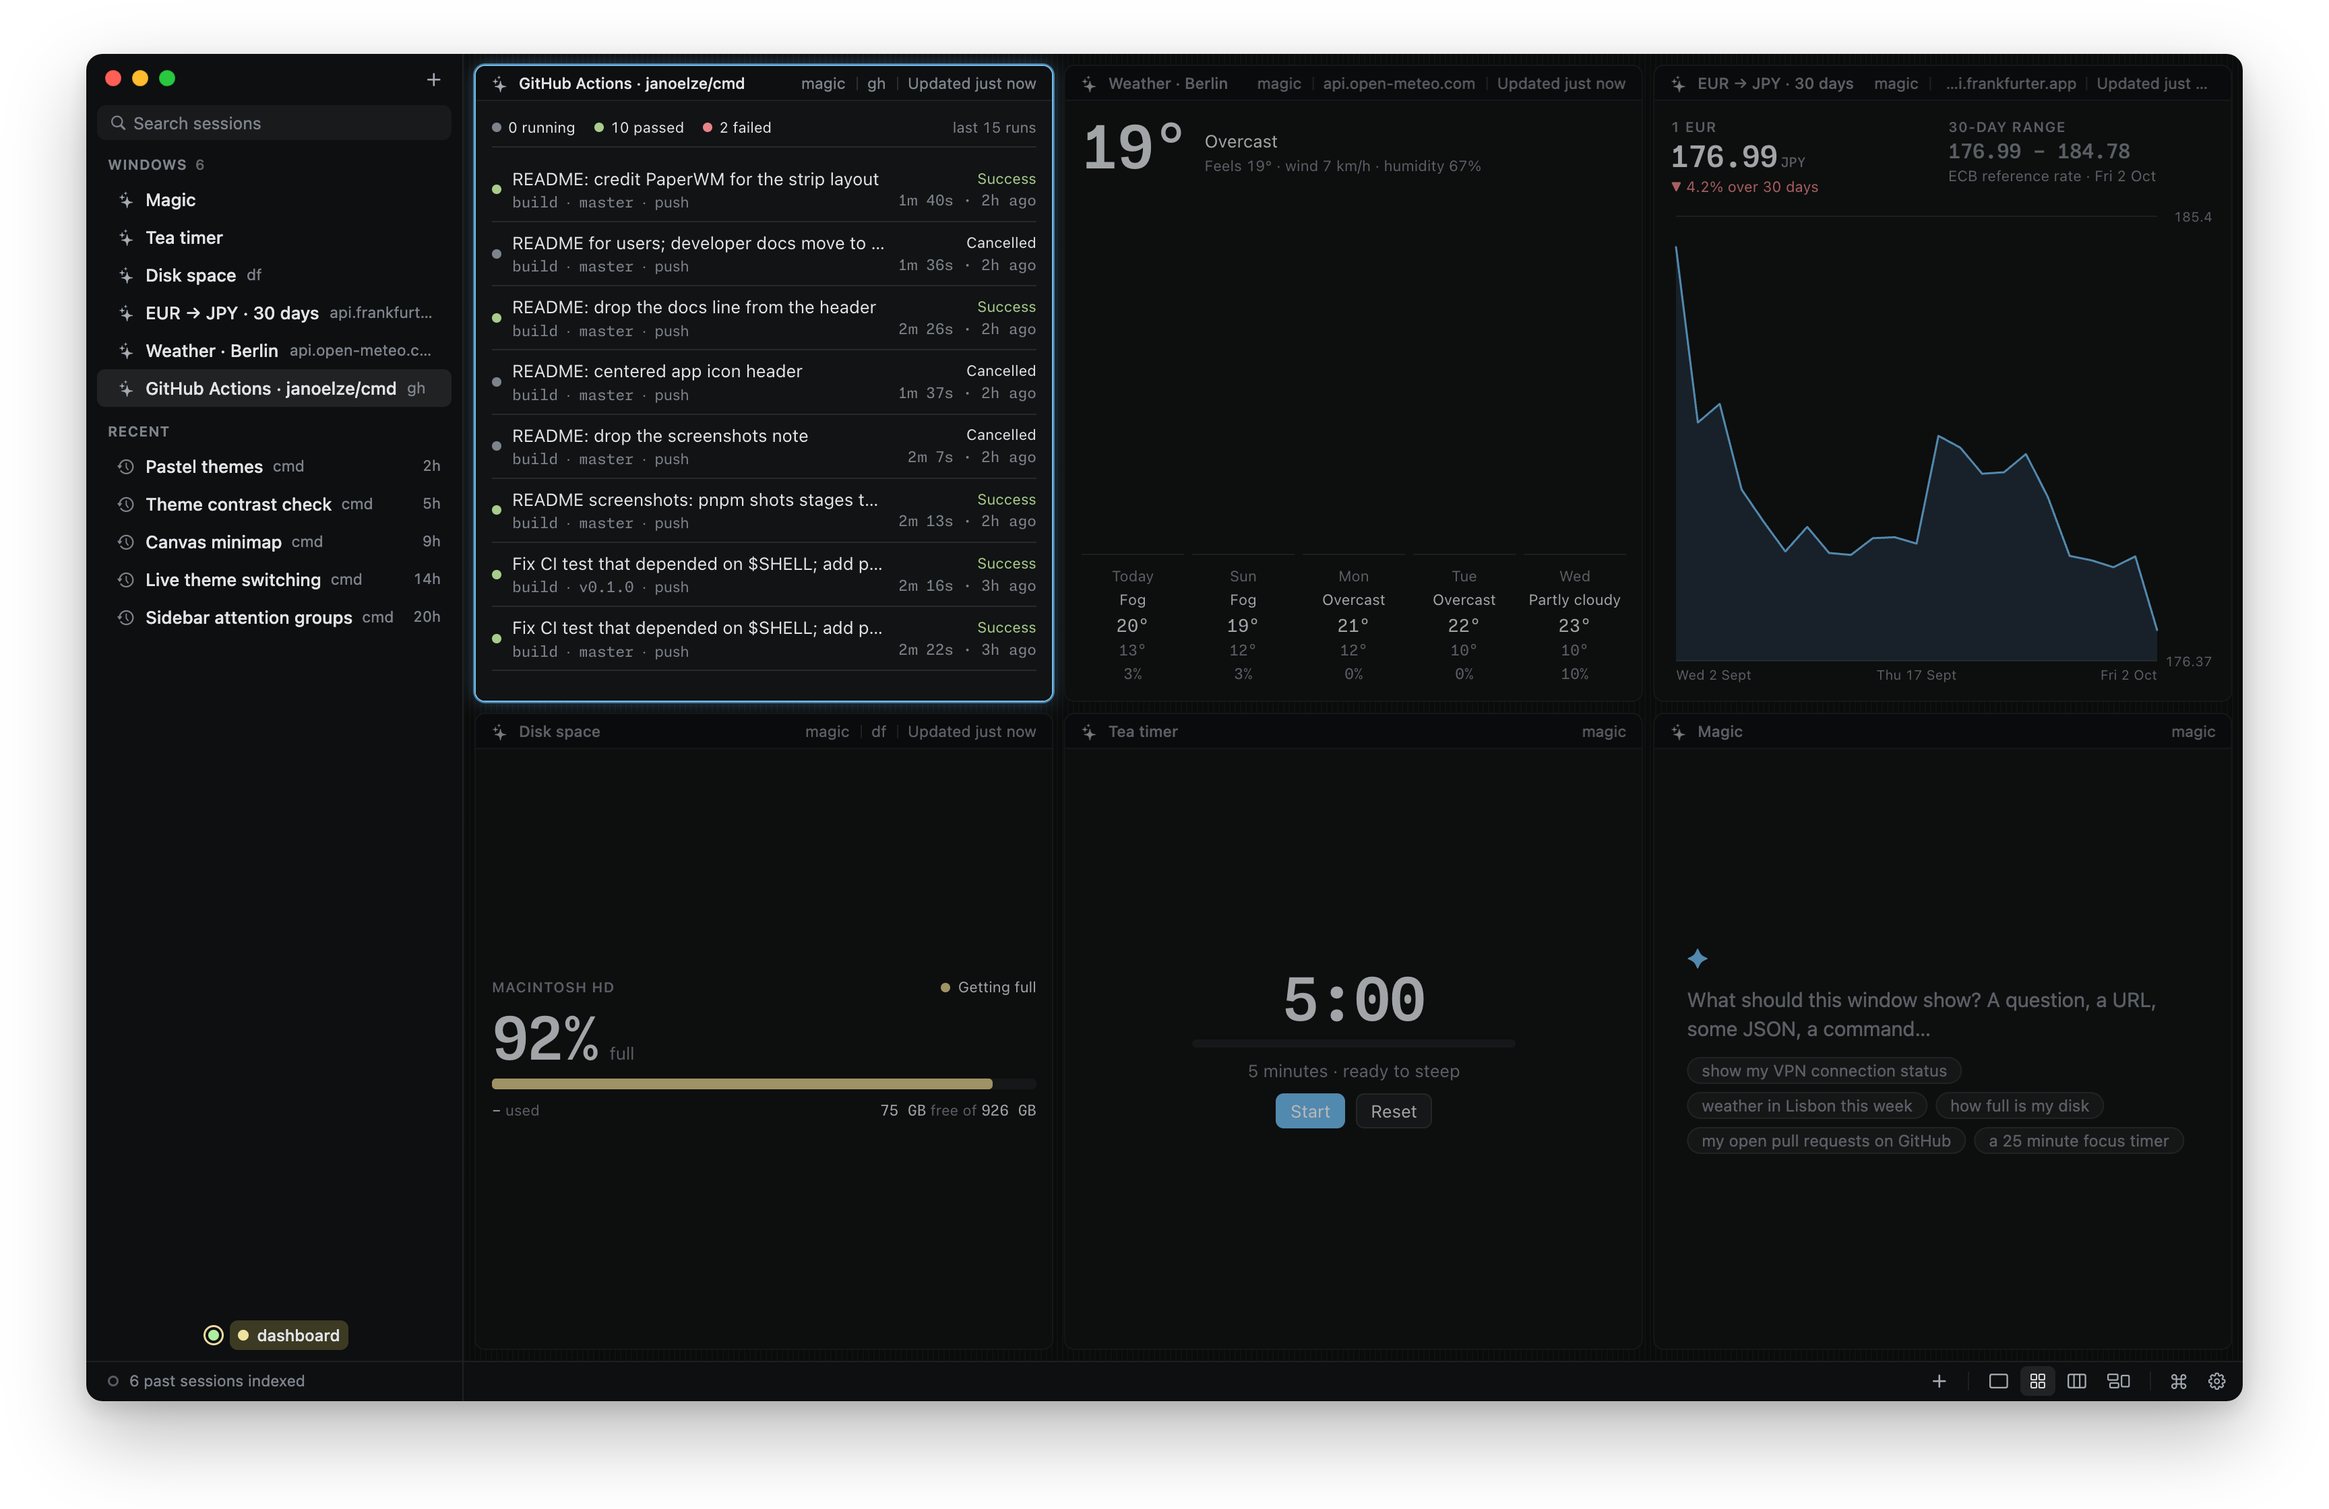
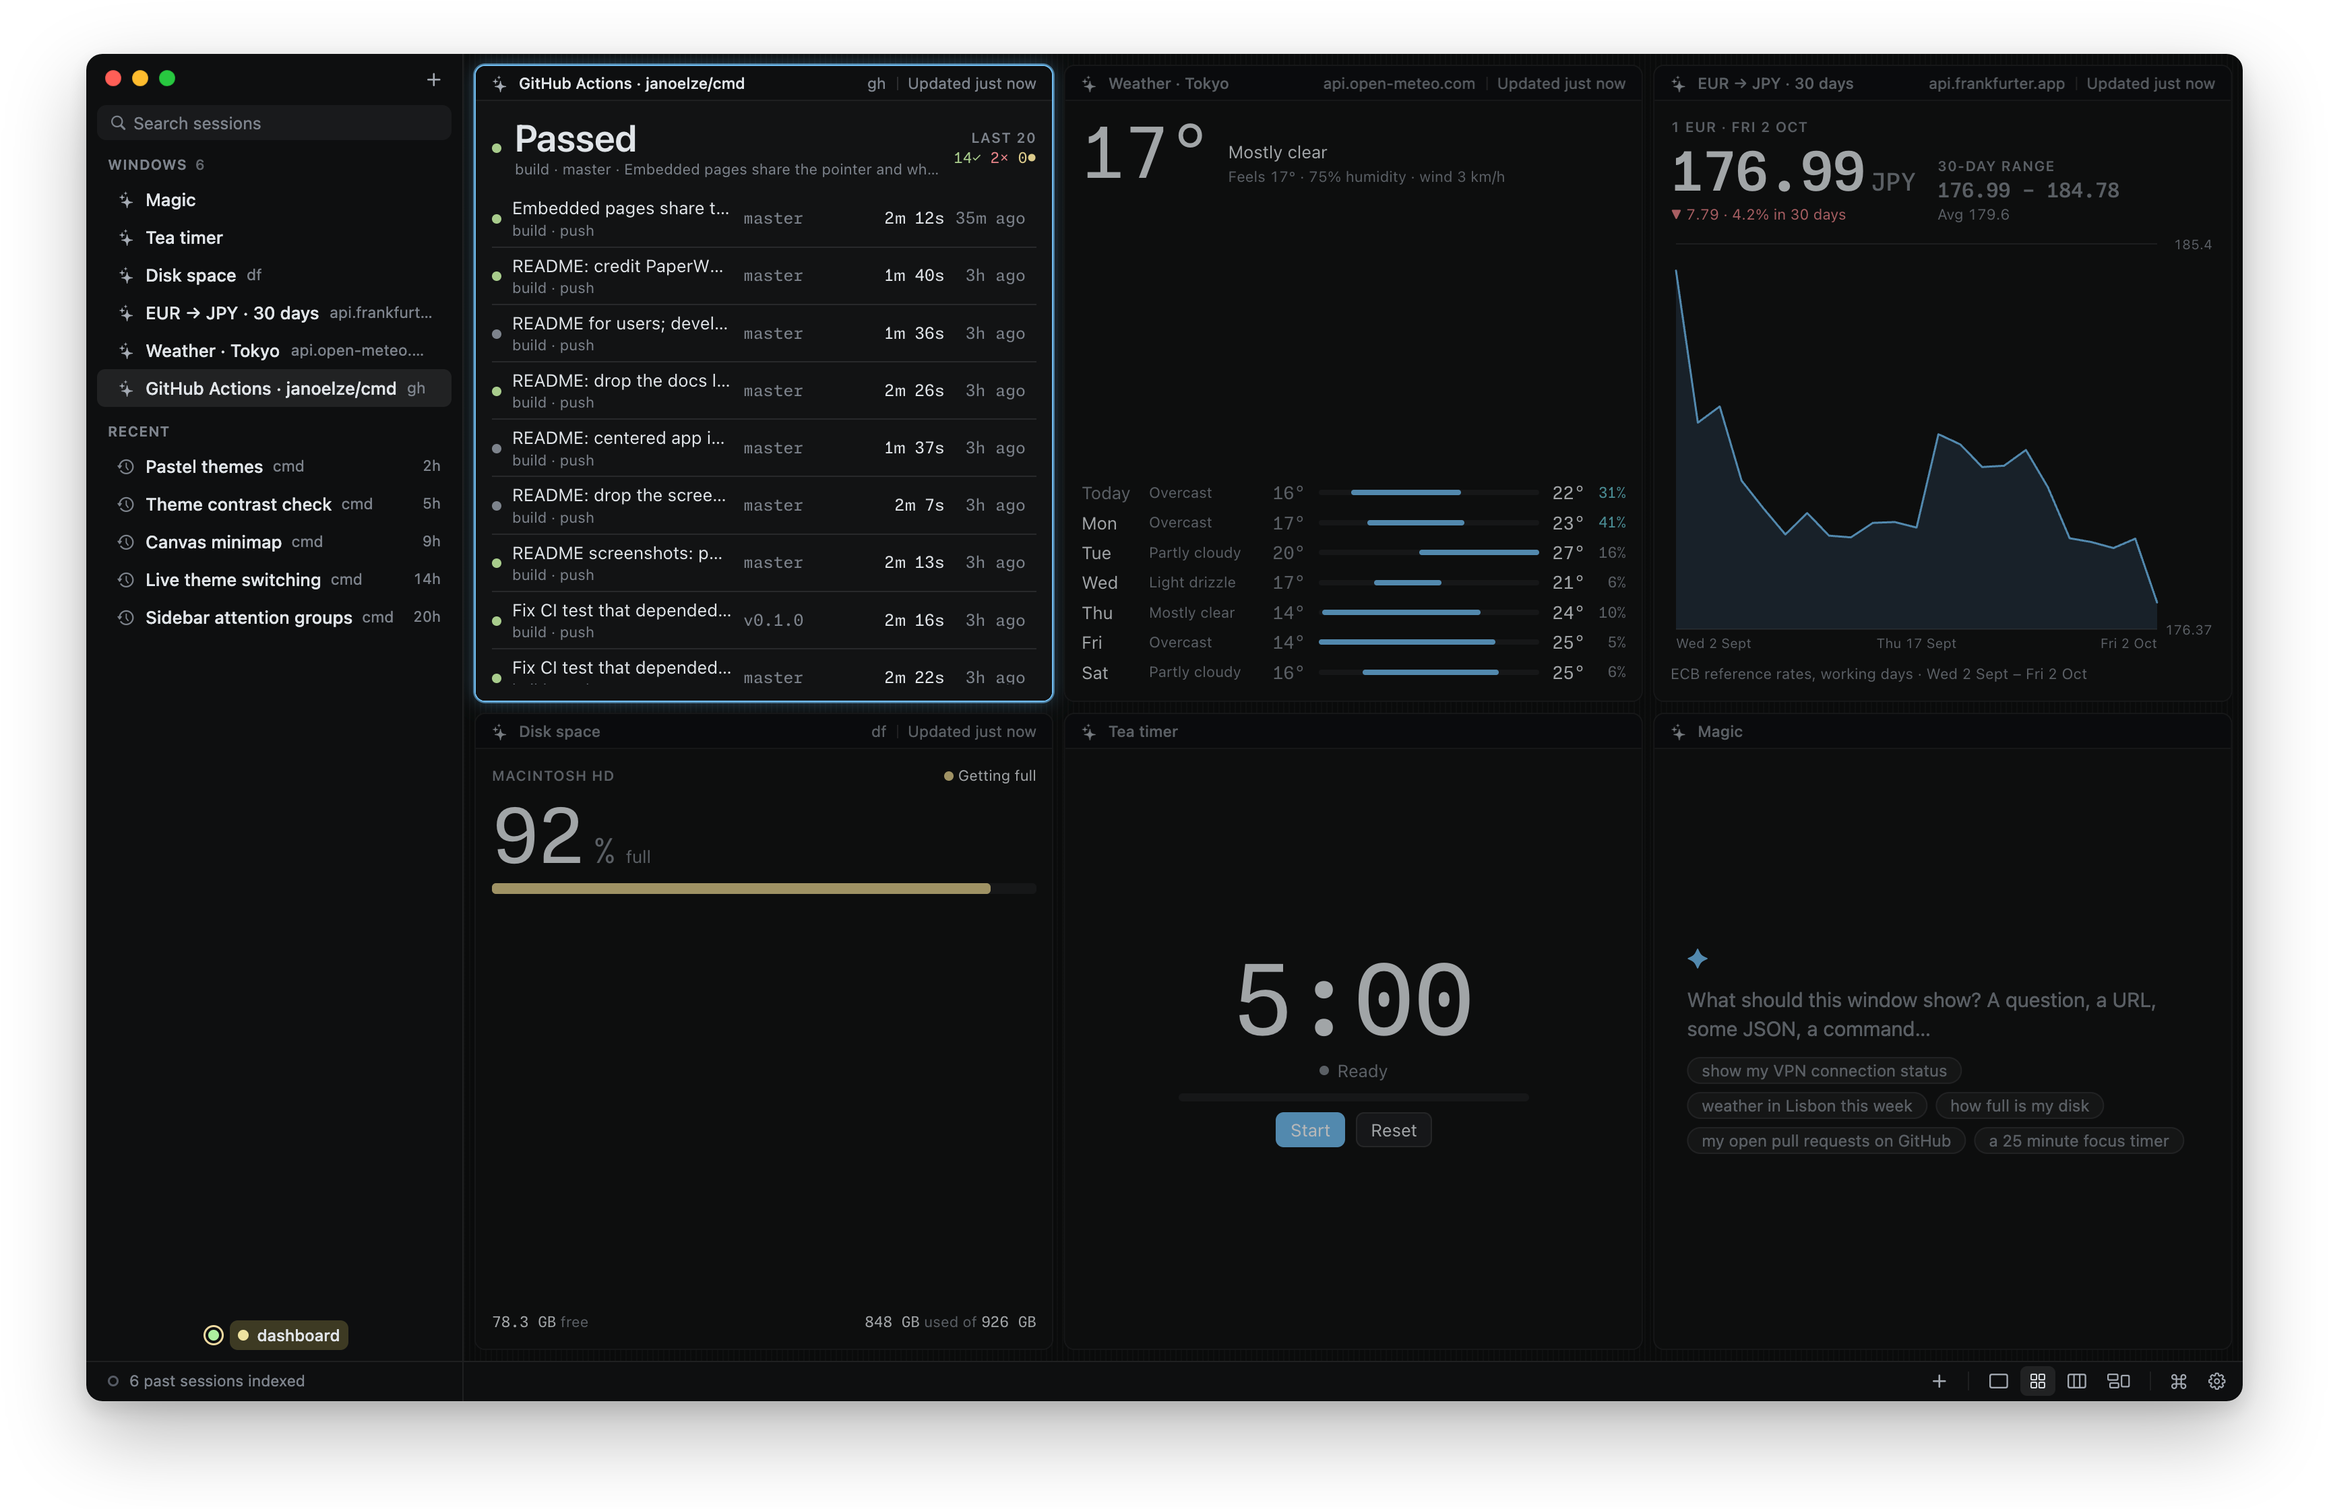
Magic windows: work at any size; no "magic" in the title bar
- The prompt says windows start at the chosen size but get resized, gridded
  and zoomed out down to ~200x120: flexible layout, the essential value
  survives, details give way (kit: k-hide-narrow, k-hide-short), big type
  scales. The prompt lab renders every widget again at 240x150 and the eval
  scores overflow there. Old prompt: 5 of 8 widgets broke when small; new:
  0 of 6.
- Title bars of Magic windows drop the "magic" kind (the icon says it); any
  window type can do the same with describe() → kind: null.
- Magic window buttons use the app's arrow cursor (e2e checks it).
- README screenshots rebuilt from widgets made with the current prompt.

diff --git a/packages/cli/src/magic.ts b/packages/cli/src/magic.ts
@@ -182,7 +182,12 @@ export interface RenderCheck {
   empty: boolean;
   overflow: boolean;
   shots: string[];
+  /** Rendered at SMALL as well (windows get resized, gridded, zoomed out). */
+  small?: { overflowX: boolean; overflowY: boolean; empty: boolean };
 }
+
+/** A small window, as in a dense grid or a zoomed-out canvas. */
+export const SMALL = [240, 150] as const;
 
 /**
  * Render a run's widget in headless Chromium at its size, once per theme:
@@ -222,11 +227,28 @@ export async function shoot(dir: string, r: MagicResult, themes: (ThemeLike & { 
       await page.close();
       fs.rmSync(file);
     }
+    // Once more, small (dark theme).
+    const file = path.join(dir, "widget-small.html");
+    fs.writeFileSync(file, widgetHtml({ title: r.header.title, body: r.body, tokens: widgetTokens(themes[0]!), data }));
+    const page = await browser.newPage({ viewport: { width: SMALL[0], height: SMALL[1] }, deviceScaleFactor: 2, colorScheme: themes[0]!.appearance });
+    await page.goto(pathToFileURL(file).href);
+    await page.waitForTimeout(600);
+    const st = await page.evaluate(() => ({
+      text: document.body.innerText.trim().length,
+      nodes: document.body.querySelectorAll("*").length,
+      w: document.documentElement.scrollWidth,
+      h: document.documentElement.scrollHeight,
+    }));
+    await page.screenshot({ path: path.join(dir, "small.png") });
+    check.shots.push(path.join(dir, "small.png"));
+    check.small = { overflowX: st.w > SMALL[0] + 2, overflowY: st.h > SMALL[1] + 2, empty: st.text === 0 && st.nodes < 3 };
+    await page.close();
+    fs.rmSync(file);
   } finally {
     await browser.close();
   }
   const m = JSON.parse(fs.readFileSync(path.join(dir, "metrics.json"), "utf8"));
-  m.render = { errors: check.errors, empty: check.empty, overflow: check.overflow };
+  m.render = { errors: check.errors, empty: check.empty, overflow: check.overflow, small: check.small };
   fs.writeFileSync(path.join(dir, "metrics.json"), JSON.stringify(m, null, 2) + "\n");
   return check;
 }
@@ -249,7 +271,7 @@ async function viewCommand(dirs: string[]): Promise<number> {
     const r = { header: parsed.header, body: parsed.body, sample: data === undefined ? null : { ok: true, data, ms: 0, bytes: 0 } } as unknown as MagicResult;
     fs.writeFileSync(path.join(dir, "widget.html"), widgetHtml({ title: parsed.header.title, body: parsed.body, tokens: widgetTokens(themes.get(systemAppearance())!), data }));
     const check = await shoot(dir, r, [themes.get("dark")!, themes.get("light")!]);
-    const bad = check ? [...check.errors, check.empty ? "draws nothing" : "", check.overflow ? "overflows" : ""].filter(Boolean) : [];
+    const bad = check ? [...check.errors, check.empty ? "draws nothing" : "", check.overflow ? "overflows" : "", check.small?.overflowX ? `overflows sideways at ${SMALL.join("×")}` : ""].filter(Boolean) : [];
     process.stderr.write(`${bad.length ? red("✗") : green("✓")} ${parsed.header.title} ${dim(dir)}${bad.length ? "\n  " + red(bad.join("; ")) : ""}\n`);
     if (bad.length) failed++;
   }
@@ -351,7 +373,7 @@ export async function magicCommand(argv: string[]): Promise<number> {
     process.stderr.write(`  ${mark} ${secs(r.timings.done)} · ${r.trace.length} steps${r.repairs.length ? ` · ${r.repairs.length} repair` : ""}${tokens}${cost}\n`);
     for (const e of r.errors) process.stderr.write(red(`    ${e.split("\n")[0]}\n`));
     if (render) {
-      const bad = [...render.errors.map((e) => `script error: ${e}`), render.empty ? "draws nothing" : "", render.overflow ? "overflows its window" : ""].filter(Boolean);
+      const bad = [...render.errors.map((e) => `script error: ${e}`), render.empty ? "draws nothing" : "", render.overflow ? "overflows its window" : "", render.small?.overflowX ? "overflows sideways when small" : ""].filter(Boolean);
       process.stderr.write(bad.length ? red(`  ✗ render: ${bad.join("; ")}\n`) : `  ${green("✓")} renders ${dim(render.shots.map((p) => path.basename(p)).join(", "))}\n`);
     }
     if (r.header?.kind === "terminal") console.log(r.header.command);

diff --git a/packages/cli/src/magic-eval.ts b/packages/cli/src/magic-eval.ts
@@ -69,6 +69,9 @@ function judge(c: Case, r: MagicResult, render: RenderCheck | null, lint: { lite
     for (const x of render.errors) problems.push(`script error: ${x}`);
     if (render.empty) problems.push("draws nothing");
     if (render.overflow) warnings.push("overflows");
+    if (render.small?.overflowX) problems.push("overflows sideways when small (240×150)");
+    if (render.small?.overflowY) warnings.push("taller than a small window (240×150)");
+    if (render.small?.empty) problems.push("draws nothing when small");
   }
   if (lint?.literalColors.length) problems.push(`literal colours: ${lint.literalColors.join(" ")}`);
   if (lint?.externalResources.length) problems.push(`external resources: ${lint.externalResources.join(" ")}`);

diff --git a/apps/desktop/src/renderer/src/windows/registry.ts b/apps/desktop/src/renderer/src/windows/registry.ts
@@ -18,10 +18,11 @@ export interface WindowView {
   View: ComponentType<WindowViewProps>;
   /**
    * The window's Name (defaults to its title) and Place (host, folder, …), see
-   * docs/10-window-titles.md. Kind comes from the type; Status and Dirty from
+   * docs/10-window-titles.md. `kind: null` hides the Kind (when the icon and
+   * name already say it). Kind comes from the type; Status and Dirty from
    * the window's live status (setWindowStatus).
    */
-  describe?(win: AppWindow): { name?: string; place?: string };
+  describe?(win: AppWindow): { name?: string; place?: string; kind?: string | null };
   /** Context-menu entries for the title bar and sidebar row. */
   menu?(win: AppWindow): MenuEntry[];
 }

diff --git a/apps/desktop/src/renderer/src/windows/builtin.tsx b/apps/desktop/src/renderer/src/windows/builtin.tsx
@@ -68,7 +68,8 @@ registerWindowView({
   describe: (w) => {
     const src = w.state.source as { type?: string; url?: string; command?: string } | null | undefined;
     const place = src?.type === "fetch" ? hostOf(src.url ?? "").replace(/^www\./, "") : src?.type === "command" ? (src.command ?? "").split(/\s+/)[0] : undefined;
-    return { name: w.title !== "Magic" ? w.title : stateStr(w, "prompt") || "Magic", place };
+    // No "magic" kind label: the sparkle icon says it, and title bars are short on room.
+    return { name: w.title !== "Magic" ? w.title : stateStr(w, "prompt") || "Magic", place, kind: null };
   },
   menu: (w) => {
     const prompt = stateStr(w, "prompt");

diff --git a/apps/desktop/src/renderer/src/components/magic.css b/apps/desktop/src/renderer/src/components/magic.css
@@ -77,6 +77,9 @@
   font: 12px var(--font-ui); color: var(--text-dim);
   background: var(--bg-elevated); border: 1px solid color-mix(in srgb, var(--ink) 12%, transparent); border-radius: 12px;
 }
+/* Like the app's own buttons (.btn, .icon-btn in styles.css): the arrow, no text selection. */
+.magic-refine, .magic-refine-btn, .magic-step, .magic-row, .magic-error { cursor: default; user-select: none; }
+.magic-refine-form input { cursor: text; user-select: text; }
 .magic-refine-btn:hover { color: var(--text); }
 .magic-refine-btn.icon { padding: 0 6px; }
 .magic-refine.open { right: 8px; }

diff --git a/apps/desktop/src/renderer/src/model.ts b/apps/desktop/src/renderer/src/model.ts
@@ -174,7 +174,7 @@ export function fieldsOf(r: SidebarRow, live: LiveStatus | undefined, now: numbe
     const d = viewFor(w.kind)?.describe?.(w) ?? {};
     f = {
       name: d.name || w.title || type?.title || w.kind,
-      kind: (type?.title ?? w.kind).toLowerCase(),
+      kind: d.kind === null ? undefined : (d.kind ?? type?.title ?? w.kind).toLowerCase(),
       place: d.place || undefined,
       status: live ? { text: live.label, key: live.key ?? live.label, transient: live.transient } : undefined,
       dirty: live?.dirty,

diff --git a/packages/core/src/magic/prompt/kit.css b/packages/core/src/magic/prompt/kit.css
@@ -89,3 +89,7 @@ svg { display: block; }
 
 .k-chart { width: 100%; height: 120px; }
 .k-spark { width: 100%; height: 28px; }
+
+/* Small windows: what gives way first (prompt.md → Any size). */
+@media (max-width: 319px) { .k-hide-narrow { display: none !important; } }
+@media (max-height: 199px) { .k-hide-short { display: none !important; } }

diff --git a/packages/core/src/magic/prompt/prompt.md b/packages/core/src/magic/prompt/prompt.md
@@ -48,7 +48,7 @@ The first line is the header, one line of JSON:
 - `title`: short, sentence case, the name of the thing ("VPN", "Weather · Lisbon", "Disk space").
 - `loading`: one or two short lines shown while your view streams in.
 - `source`, `refresh`: see above; omit both for widgets without data.
-- `size`: "s" (about 320×200), "m" (480×320), "l" (720×480) or "wide" (960×280). Pick the smallest that fits.
+- `size`: "s" (about 320×200), "m" (480×320), "l" (720×480) or "wide" (960×280). Pick the smallest that fits. It is only where the window starts (see "Any size" below).
 - `command` (terminal only): the command to type. A terminal answer has no body.
 
 # Writing the view
@@ -58,7 +58,11 @@ The body goes into a page that already has the theme, the kit below and a `cmd` 
 - Colours only through the theme variables: `--text`, `--text-dim`, `--bg`, `--surface`, `--line`, `--fill`, `--accent`, `--good`, `--warn`, `--bad`, and `--c1` … `--c6` for series. Never write a literal colour. Light and dark themes then just work.
 - Fonts: `--font` (text) and `--mono`. Radius: `--radius`.
 - No gradients, shadows, blur or animations; at most a short transition.
-- The window is small and resizable: flexible layout, nothing wider than its container, no page scroll unless it is a list.
+- **Any size.** The size you pick is only where the window starts: people resize windows, put a dozen of them in a grid, or zoom out on a canvas, so the same widget may get 1200×800 or 200×120. Design for that range:
+  - Flexible layout only: no fixed widths or heights in px beyond small elements, nothing wider than its container, `min-width: 0` on flex children that hold text, `k-ellipsis` on lines that may not fit. No page scroll, except a list that is longer than the window.
+  - Decide what survives when space runs out: the one value or status the request is about stays, big; labels, secondary stats, charts and details give way. Mark them `k-hide-narrow` (gone below 320px wide) or `k-hide-short` (gone below 200px tall), or write your own `@media (max-width: …)` / `(max-height: …)` rules: the frame is the viewport.
+  - Let big type shrink with the window: `font-size: clamp(20px, 12vmin, 44px)` instead of a fixed 44px.
+  - Rows wrap or reduce: a grid of five days becomes three, a table drops its least important columns. Charts (`k-chart`) take the space that's left and redraw to fit.
 - Render from data: `cmd.onData(d => …)` is called with the source's data now and after every refresh. Make it idempotent: set text and attributes on elements you created once, or rebuild a container's children.
 - Lead with what matters, big; details smaller and dimmer. Say what is shown (units, place, when the data is from). A missing value shows as "–"; an error shows as one calm line, not a stack trace.
 - Write in the language of the request.
@@ -94,3 +98,4 @@ Classes you can use (all colours come from the theme):
 - Status: `k-good`, `k-warn`, `k-bad` (text colour); `k-badge` (pill, combine with k-good/k-warn/k-bad); `k-dot` (status light, same modifiers).
 - Data: `k-table` (with th/td, `k-num` cells), `k-list` (rows with dividers), `k-kv` (a `<dl>` of labels and values), `k-bar` with an `<i>` child whose width is `--v` (e.g. `style="--v:42%"`, colour `--c`), `k-pre` (monospace text), `k-term` (a terminal-like output block).
 - Controls: `k-btn` (`k-primary`), `k-input`. `k-empty` for an empty state.
+- Small windows: `k-hide-narrow` (hidden below 320px wide), `k-hide-short` (hidden below 200px tall).

diff --git a/README.md b/README.md
@@ -51,7 +51,7 @@ Run Claude Code, Codex and your shells side by side, and see at a glance which a
 
 <picture>
   <source media="(prefers-color-scheme: dark)" srcset="docs/screenshots/magic-dark.png">
-  <img alt="Magic windows in a grid: GitHub Actions runs, the weather in Berlin, a EUR to JPY chart, disk space, a tea timer, and an empty Magic window asking what it should show" src="docs/screenshots/magic-light.png">
+  <img alt="Magic windows in a grid: GitHub Actions runs, the weather in Tokyo, a EUR to JPY chart, disk space, a tea timer, and an empty Magic window asking what it should show" src="docs/screenshots/magic-light.png">
 </picture>
 
 Press ⇧⌘M and type what the window should show: a question, a URL, some JSON, a command. cmd turns it into a small live window:
